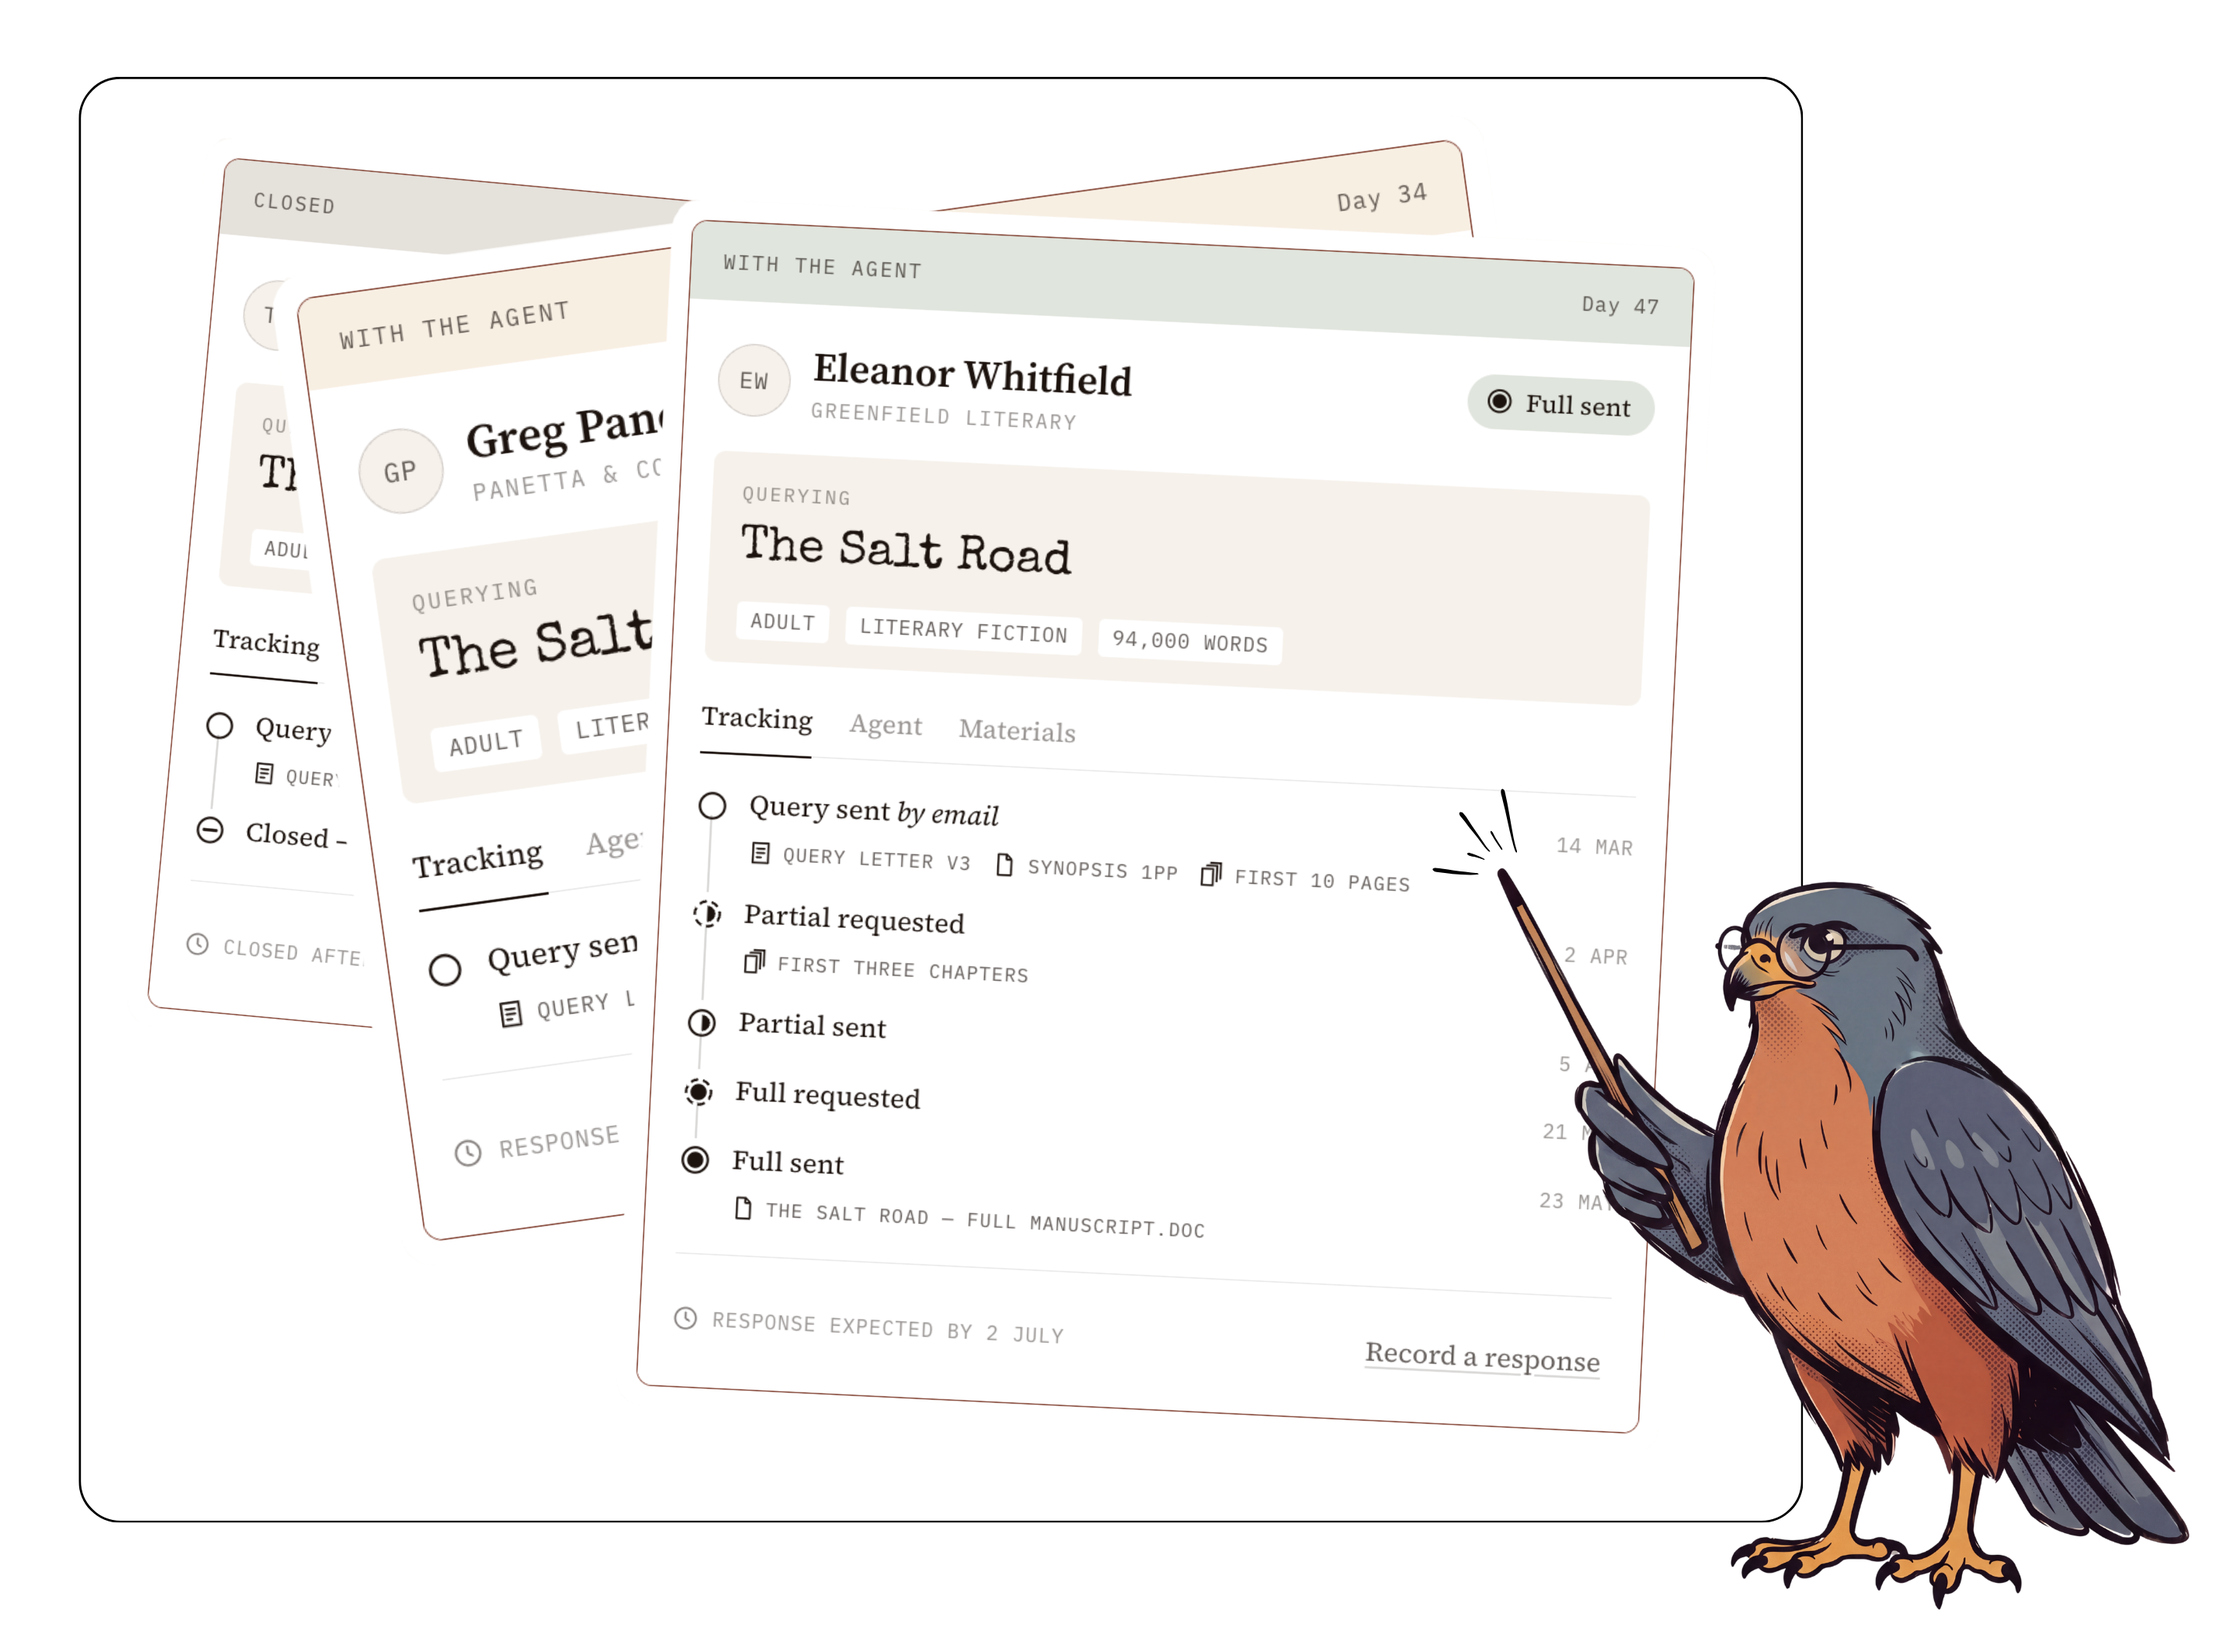
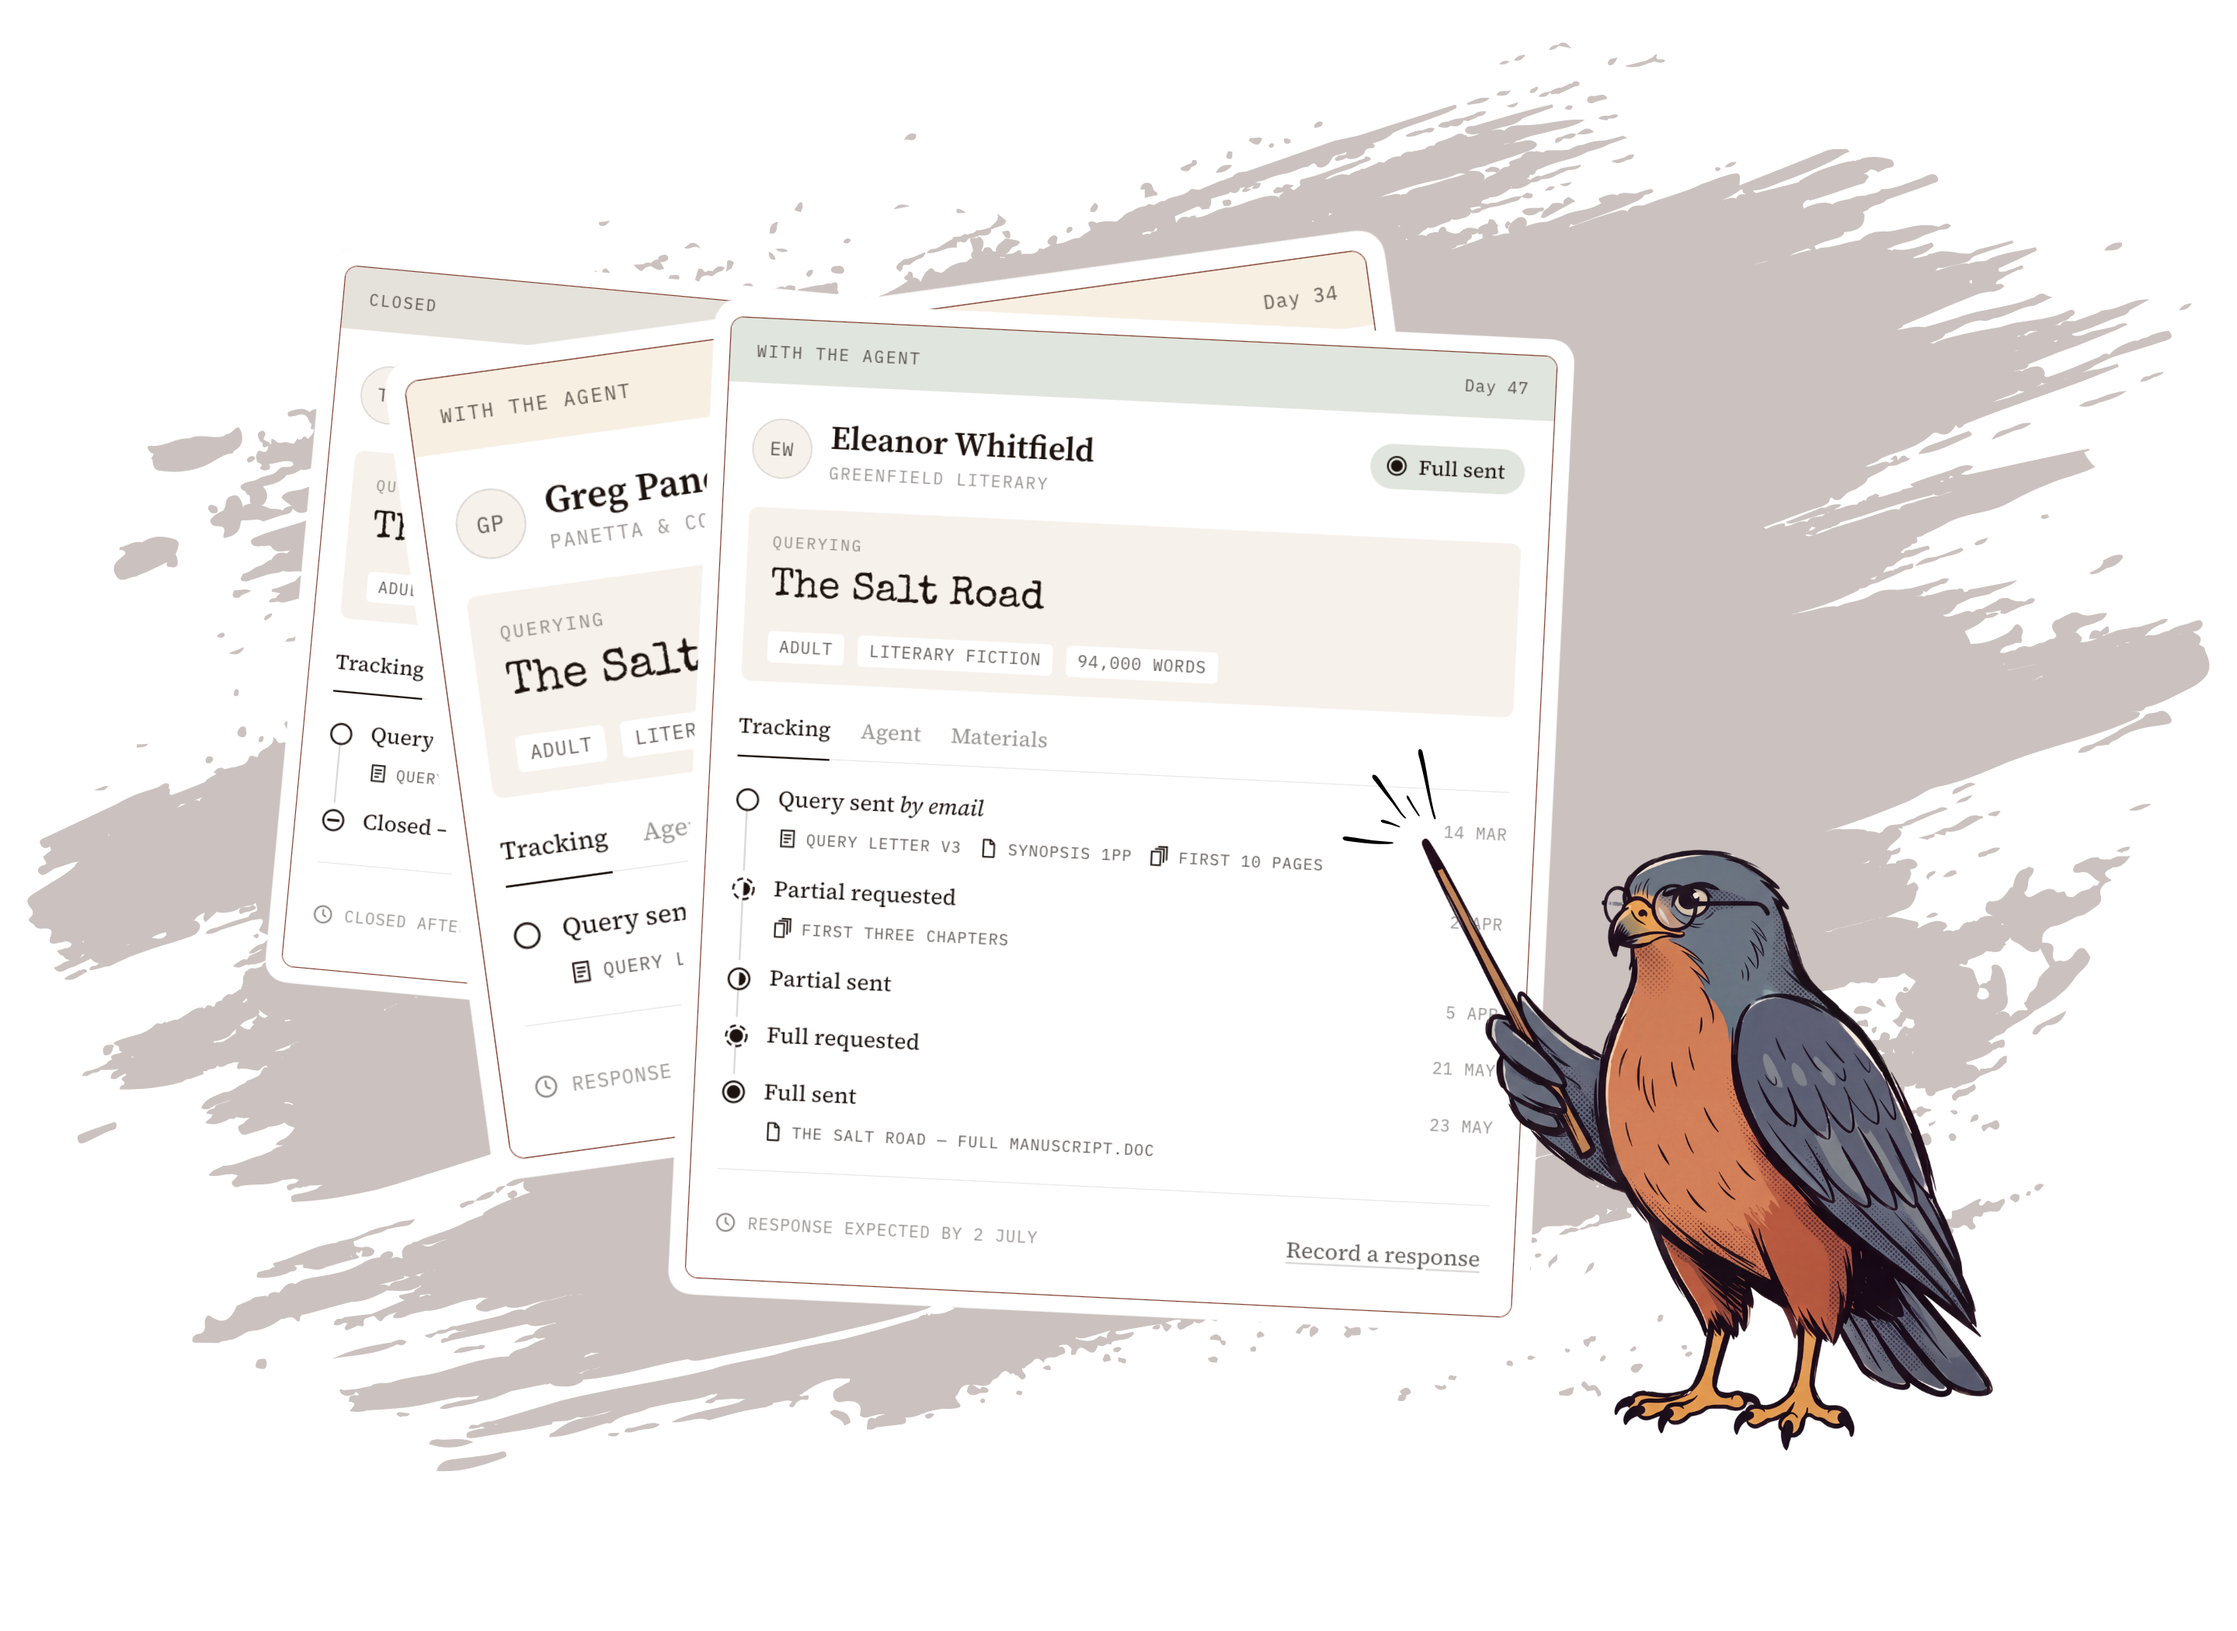
landing: the Track illustration takes the splash artwork and bleeds a third larger into the page margin
The Track row's image is the new QueryHawk splash artwork (still 2880×2100, so the size table and the
reserved box are unchanged), and it now grows a third wider than its column — so a third taller at its
own ratio — out past the rows' gutter on the right, the side its row puts it. The copy keeps its
column: the same x, width and line breaks at every width measured.

The growth is capped at the room left to the band's edge, so a narrower screen gets less rather than a
scrollbar. Measured against the committed tip across 19 widths, 375 to 2560:

  1470px and up   608×443 → 809×590   +33% height
  1440            608×443 → 794×579   +31%, the image ends at the screen edge
  1280            608×443 → 714×521   +17%
  1100            559×407 → 615×448   +10%
  1080 and down   unchanged — rows stack and the bleed is zeroed

The row is taller by the difference (564 → 700px at 1440), so everything below it moves down.

How it is built:
- .mk-featband is the query container and the cap reads 100cqw, the band's own width, so a classic
  scrollbar is never counted as room. .mk-rows states its cap and gutter as --mk-rows-cap and
  --mk-rows-gutter (the same 1180px and 56px), so the cap reads the values the layout actually uses.
- The bleed is .mk-rowillo--bleed behind @supports (width: 1cqw): without container units the width is
  invalid at computed-value time, falls back to auto, and the image would draw at its natural 2880px.
[…]

diff --git a/src/marketing/marketing.css b/src/marketing/marketing.css
@@ -867,7 +867,9 @@ html:has(.mk-scope) { scroll-behavior: smooth; }
    again would put a third surface inside the second. The top padding still holds the trace clear
    of the band's top edge. */
 /* The section break above now opens this region, so the band itself only closes it. */
-.mk-featband { padding: 0 0 26px; margin-top: 0; }
+/* container-type: the band is the query container the Track image's bleed measures the page against
+   (100cqw is the band's own width, so a classic scrollbar is never counted as room). */
+.mk-featband { padding: 0 0 26px; margin-top: 0; container-type: inline-size; }
 
 /* ── The full-width section break: eyebrow, heading, and a trace behind them ── */
 /* ⚠ `scroll-margin-top` IS THE NAV'S HEIGHT, OR THE HEADING LANDS UNDERNEATH IT. The marketing
@@ -948,7 +950,7 @@ html:has(.mk-scope) { scroll-behavior: smooth; }
    the header's 120px back on top of that gave 152.6px, which read as a hole where a heading used
    to be. The band's hairline and its change of paper are the separator — it does not need a
    run-up as well. */
-.mk-rows { max-width: 1180px; margin: 0 auto; padding: 16px 56px 30px; }
+.mk-rows { --mk-rows-cap: 1180px; --mk-rows-gutter: 56px; max-width: var(--mk-rows-cap); margin: 0 auto; padding: 16px var(--mk-rows-gutter) 30px; }
 .mk-frow { display: grid; grid-template-columns: 1.6fr 1fr; gap: 80px; align-items: center; padding: 60px 0; }
 .mk-frow + .mk-frow { border-top: 1px solid var(--mk-hair); }
 /* The section-heading style — `.mk-sect h2`, the band's own heading above these rows — at its desktop
@@ -962,6 +964,26 @@ html:has(.mk-scope) { scroll-behavior: smooth; }
 .mk-fcopy p { font-size: 19px; font-weight: 300; line-height: 1.7; color: #5a4a40; margin-top: 14px; max-width: 460px; }
 /* The illustration at its own ratio: no crop, no frame, no fill — straight onto the band's ground. */
 .mk-rowillo { width: 100%; height: auto; min-width: 0; }
+/* A BLEEDING ILLUSTRATION grows a third wider than its column, so a third taller at its own ratio, out
+   past the rows' gutter into the page margin; its copy keeps its column. The growth is capped at the room
+   left to the band's edge (the gutter, plus whatever the rows' cap leaves outside them), so a narrower
+   screen gets less rather than a scrollbar: the whole third from ~1470px, +31% at 1440, +17% at 1280.
+   ⚠ IT BLEEDS RIGHT ONLY — the side every second row puts its image. In a left-image row the same width
+   would push across the gap and over its own copy; marketingPageSmoke.test.tsx fails on that, and a left
+   rule is not written ahead of a row that needs one.
+   ⚠ max-width: none is load-bearing — the global image reset caps every img at 100% and would cancel the
+   growth without a sound. The negative margin hands the extra width back, so the margin box is still
+   exactly its column and the grid sizes its tracks as though nothing had grown.
+   ⚠ BEHIND @supports BECAUSE THIS FAILS LOUDLY, NOT GRACEFULLY: without container units the width is
+   invalid at computed-value time, falls back to auto, and the image draws at its natural 2880px. 100vw is
+   no substitute — it counts a classic scrollbar as room and overflows by half of one. */
+@supports (width: 1cqw) {
+  .mk-rowillo--bleed {
+    --mk-bleed: min(33%, var(--mk-rows-gutter) + max(0px, (100cqw - var(--mk-rows-cap)) / 2));
+    width: calc(100% + var(--mk-bleed)); max-width: none;
+  }
+  .mk-frow:nth-child(even) .mk-rowillo--bleed { margin-right: calc(-1 * var(--mk-bleed)); }
+}
 /* ⚠ EVERY SECOND ROW PUTS ITS IMAGE ON THE RIGHT BY FLIPPING THE GRID'S DIRECTION, not by reordering
    markup: the first track — the 1.6fr image column — then starts from the right. The children are set
    back to ltr, or the copy would lay out right to left and a sentence's full stop would jump to its
@@ -1281,6 +1303,8 @@ html:has(.mk-scope) { scroll-behavior: smooth; }
   .mk-rows { padding: 10px 26px 22px; }
   .mk-frow { grid-template-columns: 1fr; gap: 28px; padding: 44px 0; }
   .mk-frow:nth-child(even) { direction: ltr; }
+  /* 0px, never a bare 0: calc(100% + 0) is invalid, and an invalid width draws the file's natural 2880px */
+  .mk-rowillo--bleed { --mk-bleed: 0px; }
   .mk-frow h3 { font-size: clamp(1.9rem, 3.2vw, 2.8rem); }
   .mk-beta { padding-left: 18px; padding-right: 18px; }
   .mk-foot { padding: 30px 26px 40px; flex-wrap: wrap; }

diff --git a/src/marketing/marketingTokens.test.ts b/src/marketing/marketingTokens.test.ts
@@ -379,7 +379,7 @@ describe("the hero grid aligns per item, and overlaps by construction", () => {
    * The claim is the SET, not the values. `.mk-fw`'s offsets are fixed pixels against type that
    * is not, so they will legitimately be re-tuned; pinning them would be a lock that has to be
    * rewritten every time the headline's clamp moves, which is a lock being weakened on schedule.
-   * A sixth selector appearing here is the thing worth failing on.
+   * A selector appearing here that the list does not name is the thing worth failing on.
    *
    * ⚠ SWEPT OVER THE WHOLE SHEET, NOT A SLICE OF IT. The first version of this sliced from
    * `.mk-hero {` to `.mk-featband` — and the plate's rule lives eight hundred lines further down,
@@ -387,12 +387,14 @@ describe("the hero grid aligns per item, and overlaps by construction", () => {
    * The hero's rules are not contiguous, and a positional slice over a file that does not group
    * by feature answers a question nobody asked.
    */
-  it("…and the whole sheet's negative margins are the five that are meant to be there", () => {
+  it("…and the whole sheet's negative margins are the six that are meant to be there", () => {
     const owners = new Set<string>();
     for (const m of marketing.matchAll(/(?:^|\n)([^@{}][^{}]*?)\{([^{}]*)\}/g)) {
       if (/margin[^:]*:\s*[^;]*-\d/.test(m[2])) m[1].split(",").forEach((x) => owners.add(x.trim()));
     }
     expect([...owners].sort()).toEqual([
+      /* the Track illustration, bleeding past the rows' gutter into the page margin — the plate's kind */
+      ".mk-frow:nth-child(even) .mk-rowillo--bleed",
       /* the plate, bleeding past the container's own gutter to the page edge */
       ".mk-hero .mk-illo--tall",
       /* the burst, pulled back over the headline's last word */
@@ -653,5 +655,32 @@ describe("the feature rows alternate only while they sit side by side", () => {
       .find((m) => /\.mk-frow h3\s*\{/.test(m[1]));
     expect(stacking, "the stacked block resizes the row heading").toBeTruthy();
     expect(stacking![1]).toContain(".mk-frow h3 { font-size: " + clamp![1] + "; }");
+  });
+});
+
+/**
+ * ⚠ A BLEEDING ILLUSTRATION GROWS ONLY WHILE ROWS SIT SIDE BY SIDE, ONLY TO THE BAND'S EDGE, AND ONLY
+ * WHERE THE UNIT IT MEASURES WITH EXISTS. The stacked block zeroes the bleed and wins only by coming
+ * later — without it a phone keeps an image wider than its screen — and it zeroes it as 0px, because
+ * calc(100% + 0) is invalid and an invalid width is the file's natural 2880px. The @supports guard is
+ * there for the same reason: a browser without container units would otherwise draw the natural size.
+ * The cap reads 100cqw, which means the band only because the band is the query container. And
+ * max-width: none is what lets the growth happen at all, against the global img reset.
+ */
+describe("a bleeding illustration grows only side by side, and only to the band's edge", () => {
+  it("bleeds right, capped by the band, behind a container-unit guard, and is zeroed when rows stack", () => {
+    expect(ruleFor(".mk-featband")).toMatch(/container-type:\s*inline-size/);
+    const guards = [...marketing.matchAll(/@supports \(width: 1cqw\) \{([\s\S]*?)\n\}/g)];
+    expect(guards, "one container-unit guard").toHaveLength(1);
+    const bleed = /(?:^|\n)\s*\.mk-rowillo--bleed\s*\{([^}]*)\}/.exec(guards[0][1]);
+    expect(bleed, "the guard holds the bleed").toBeTruthy();
+    expect(bleed![1]).toMatch(/--mk-bleed:\s*min\(33%,[^;]*100cqw/);
+    expect(bleed![1]).toMatch(/(?:^|[;\s])width:\s*calc\(100% \+ var\(--mk-bleed\)\)/);
+    expect(bleed![1]).toMatch(/max-width:\s*none/);
+    expect(guards[0][1]).toMatch(/(?:^|\n)\s*\.mk-frow:nth-child\(even\) \.mk-rowillo--bleed\s*\{\s*margin-right:\s*calc\(-1 \* var\(--mk-bleed\)\);?\s*\}/);
+    const stacking = [...marketing.matchAll(/@media \(max-width: 1080px\) \{([\s\S]*?)\n\}/g)]
+      .find((m) => /(?:^|\n)\s*\.mk-rowillo--bleed\s*\{\s*--mk-bleed:\s*0px;?\s*\}/.test(m[1]));
+    expect(stacking, "the stacked block zeroes the bleed, with a unit").toBeTruthy();
+    expect(guards[0].index!, "the zero comes after the bleed it overrides").toBeLessThan(stacking!.index!);
   });
 });

diff --git a/src/marketing/FeatureRows.tsx b/src/marketing/FeatureRows.tsx
@@ -30,13 +30,19 @@ const ILLUSTRATION_SIZE: Record<string, { width: number; height: number }> = {
   "/images/comparable-titles.png": { width: 2880, height: 1620 },
 };
 
+/* Illustrations that grow a third larger than their column, out past the gutter into the page margin
+   (capped at the screen edge, off when rows stack — see .mk-rowillo--bleed). ⚠ The stylesheet bleeds
+   RIGHT only, so a file listed here must sit in an image-right row, i.e. every second one; a smoke test
+   fails otherwise. A per-file presentation choice: the Track artwork, 15 Sep. */
+const BLEEDS_INTO_MARGIN = new Set(["/images/track-agent-queries.png"]);
+
 export const FeatureRows: React.FC = () => (
   <section className="mk-featband" id="mk-features">
     <div className="mk-rows">
       {FEATURE_ROWS.map((row) => (
         <div className="mk-frow" key={row.key}>
           <img
-            className="mk-rowillo"
+            className={"mk-rowillo" + (BLEEDS_INTO_MARGIN.has(row.image) ? " mk-rowillo--bleed" : "")}
             src={row.image}
             alt={row.alt}
             width={ILLUSTRATION_SIZE[row.image].width}

diff --git a/src/marketing/marketingPageSmoke.test.tsx b/src/marketing/marketingPageSmoke.test.tsx
@@ -718,4 +718,18 @@ describe("the feature rows: six images, six headings, six paragraphs", () => {
       expect(rows[i], row.image).toContain('width="' + png.readUInt32BE(16) + '" height="' + png.readUInt32BE(20) + '"');
     });
   });
+
+  /**
+   * ⚠ THE STYLESHEET BLEEDS AN ILLUSTRATION RIGHT, AND ONLY RIGHT — the side every second row puts its
+   * image. Moved into a left-image row, a bleeding image would grow across the gap and over its own copy
+   * while the class, the rule and this markup all still read correctly.
+   */
+  it("bleeds an illustration only where its row puts the image on the right", () => {
+    const rows = rowsOf(band());
+    const bleeding = rows.flatMap((markup, i) => (/["\s]mk-rowillo--bleed["\s]/.test(markup) ? [i] : []));
+    for (const i of bleeding) {
+      expect((i + 1) % 2, FEATURE_ROWS[i].key + " is row " + (i + 1) + ", which puts its image on the left").toBe(0);
+    }
+    expect(bleeding.map((i) => FEATURE_ROWS[i].key), "the rows whose illustration bleeds").toEqual(["track"]);
+  });
 });
